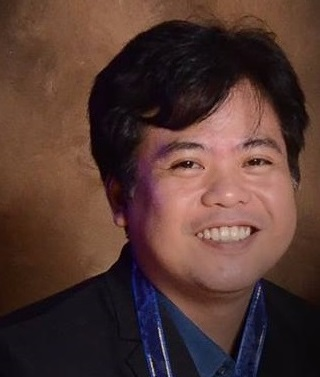
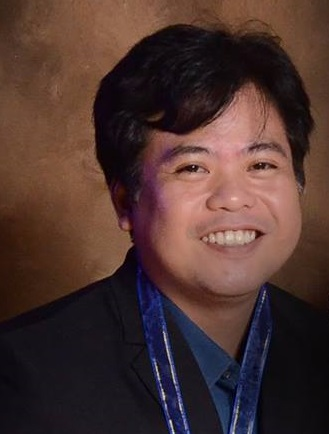
Added roy

diff --git a/client/src/app/components/home/home.component.html b/client/src/app/components/home/home.component.html
@@ -118,7 +118,7 @@
                         </div>
                         <div class="col-md-4">
                             <div class="team-player">
-                                 <img src="../assets/osomedia/admins/Roy.jpg" alt="Thumbnail Image" class="rounded-circle img-fluid img-raised">
+                                <img src="../assets/osomedia/admins/roy.jpg" alt="Thumbnail Image" class="rounded-circle img-fluid img-raised">
                                 <h4 class="title">Mr. Joseph Roy F. Celestino</h4>
                                 <p class="category text-primary">Head of Student Organizations</p>
                                 <p class="description">Office manager responsibilities include scheduling meetings and appointments, making office supplies arrangements, greeting visitors and providing general administrative support to our employees. </p>
